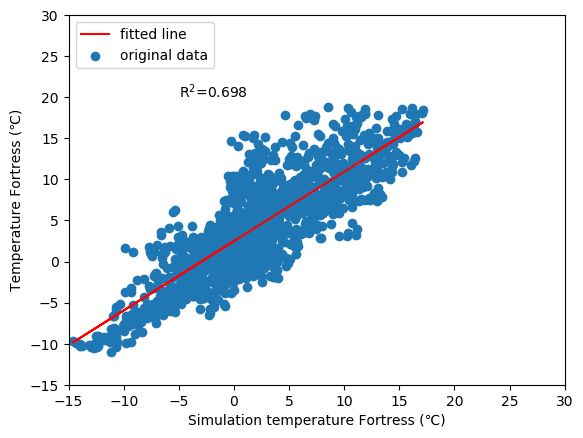
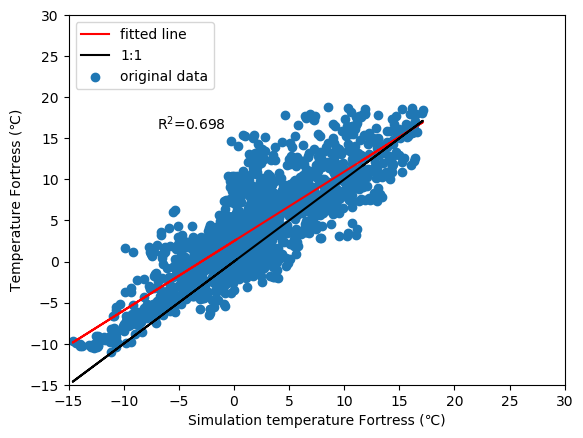
h

diff --git a/code_intern/cross_section.py b/code_intern/cross_section.py
@@ -4,6 +4,7 @@ import numpy as np
 import matplotlib.pyplot as plt
 from code_intern import Analyse_data as anadata
 from mpl_toolkits.basemap import Basemap
+
 class cross_section():
     def __init__(self, file_csv,data, **kwargs):
         self.file = file_csv
@@ -19,14 +20,25 @@ class cross_section():
         self.extent = []
         self.get_domaine()
         self.loc={'Powerline_loc': [50.82423333, -115.1972167],'Junction_loc' :[50.785568, -115.160941],'Nipika_loc' :[50.61183889, -115.8008167],'Storm_Lodge_loc' :[51.25283667, -115.9988733],'BGI_loc' :[51.026681, -115.034411]}
-
+        self.map=Basemap(llcrnrlon=-116.5, llcrnrlat=50.5, urcrnrlon=-114.5, urcrnrlat=51.5, resolution='l',
+                    projection='lcc', lat_0=self.Cen_lat, lon_0=self.Cen_lon)
+        self.ndat = 17
+        self.xy={}
     def get_domaine(self):
         self.domaine = {'LL_lat': self.lats[0][0], 'LL_lon': self.lons[0][0], 'UL_lat': self.lats[-1][0], 'UL_lon': self.lons[-1][0],
                         'LR_lat': self.lats[0][-1], 'LR_lon': self.lons[0][-1], 'UR_lat': self.lats[-1][-1], 'UR_lon': self.lons[-1][-1]}
         self.Cen_lat = self.domaine['LL_lat'] + ((self.domaine['UL_lat'] - self.domaine['LL_lat']) / 2)
         self.Cen_lon = self.domaine['LL_lon'] + ((abs(self.domaine['LL_lon']) - abs(self.domaine['LR_lon'])) / 2)
         self.extent = [self.domaine['UL_lon'], self.domaine['LR_lon'], self.domaine['LL_lat'], self.domaine['UR_lat']]
+        self.map = Basemap(llcrnrlon=-116.5, llcrnrlat=50.5, urcrnrlon=-114.5, urcrnrlat=51.5, resolution='l',
+                    projection='lcc', lat_0=self.Cen_lat, lon_0=self.Cen_lon)
+    def get_line(self):
+        xx, yy = self.map(self.lons, self.lats)
+        xgc, ygc = self.map.gcpoints(self.loc['Nipika_loc'][1], self.loc['Nipika_loc'][0], self.loc['Powerline_loc'][1], self.loc['Powerline_loc'][0], self.ndat)
+        self.xy.update({'xx':xx, 'yy':yy,'xgc':xgc, 'ygc':ygc})
 
     def __call__(self):
-        pass
+        self.get_domaine()
+        self.get_line()
+        print(self.xy)
 

diff --git a/code_intern/Analyse_data.py b/code_intern/Analyse_data.py
@@ -94,16 +94,20 @@ class data_site():
                          parse_dates=['Date'])
         for i in range(len(self.data_simul_3_site)):
             fig = plt.figure(facecolor='white')
+            # fig = plt.figure(facecolor='white',figsize=(10,10), dpi=300)
             ax = plt.subplot(1, 1, 1)
-            ax.scatter(self.data_simul_3_site[i],df[f'T {site[i]}'],label='original data')
+
             y=df[f'T {site[i]}']
             x=self.data_simul_3_site[i]
             X = sm.add_constant(x)
             model = sm.OLS(y, X, missing='drop')
             results = model.fit()
-            print(results.summary())
+
             plt.plot(self.data_simul_3_site[i],self.data_simul_3_site[i]*results.params[1]+results.params[0], 'r', label='fitted line')
-            plt.text(-5, 20,f'R$^2$={results.rsquared:.3f}')
+            plt.plot(self.data_simul_3_site[i], self.data_simul_3_site[i], 'k',
+                     label='1:1')
+            ax.scatter(self.data_simul_3_site[i], df[f'T {site[i]}'], label='original data')
+            plt.text(-7, 16,f'R$^2$={results.rsquared:.3f}')
             ax.set_xlabel(f'Simulation temperature {site[i]} (\u2103)')
             ax.set_ylabel(f'Temperature {site[i]} (\u2103)')
             ax.set_ylim([-15, 30])
